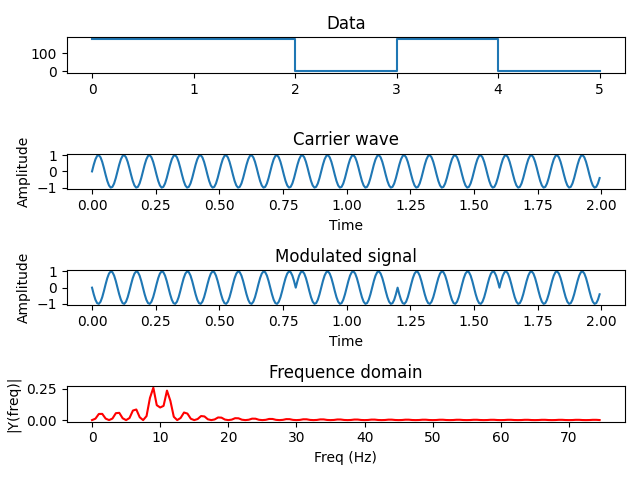
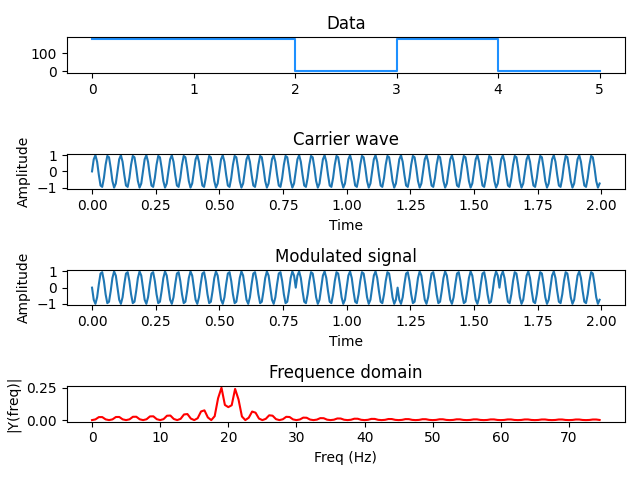
[ADD] adding frequency as argument

diff --git a/digital_modulations.py b/digital_modulations.py
@@ -49,7 +49,7 @@ class BaseClass:
 		myplot[3].plot(self.frq, abs(self.Y),'r') # plotting the spectrum
 		myplot[3].set_xlabel('Freq (Hz)')
 		myplot[3].set_ylabel('|Y(freq)|')
-		myplot[3].set_title("Frequence domain")	
+		myplot[3].set_title("Frequency domain")	
 		
 
 		plot.tight_layout()
@@ -95,7 +95,9 @@ class Psk(BaseClass):
 
 if __name__ == "__main__":
 	print("\nWORKING...")
-	if (len(sys.argv)>1):
+	len_argv = len(sys.argv)
+	if (len_argv>2):
+
 		type=(sys.argv[1].lower())
 		if type in ["ask", "fsk", "psk"]:
 			if type == "ask":
@@ -107,11 +109,8 @@ if __name__ == "__main__":
 		else:
 			print("We currently do not supprt that modulation")
 
-		# WIP:
-		#if (len(sys.argv)>2):
-		#	freq=int(sys.argv[3])
-		#if (len(sys.argv)>3):
-		#	file=str(sys.argv[1])
 	else:
-		print("You need to pass the modulation type as the first argument [ask|fsk|psk]")	
-	print("...DONE")
+		print("⚠  Usage [ask|fsk|psk] number1")
+		print("   number1=frequency, recommended is 10")
+
+	print("...DONE\n")
